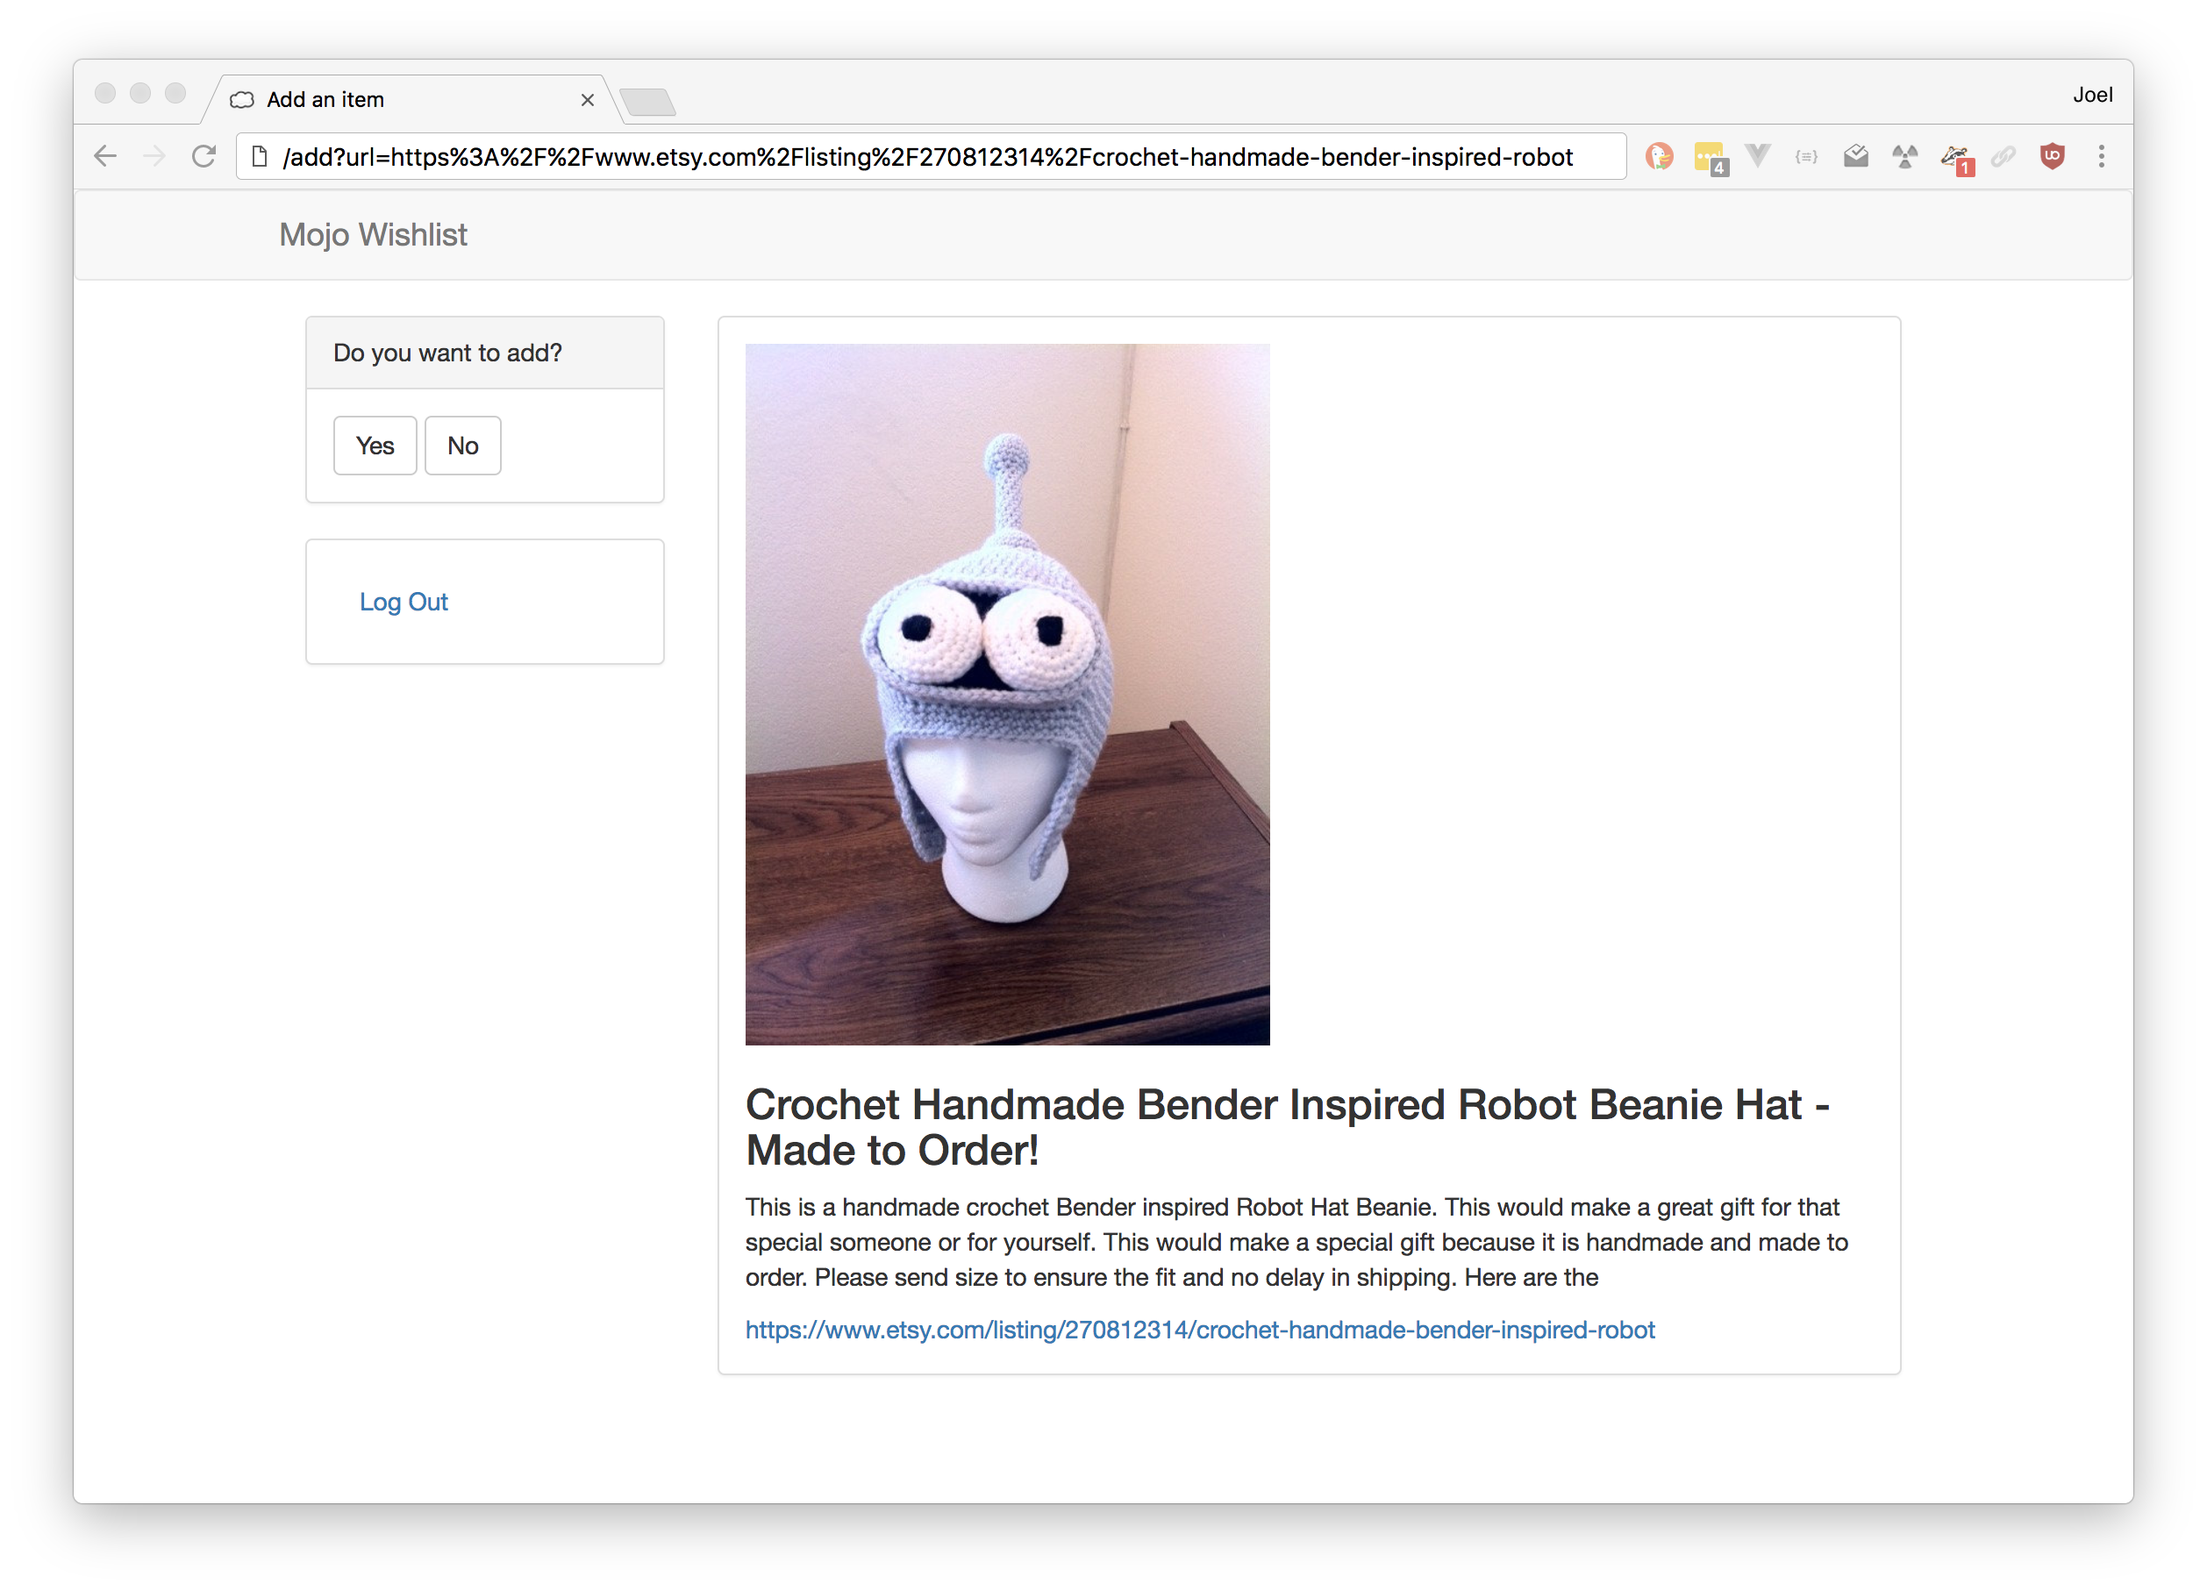
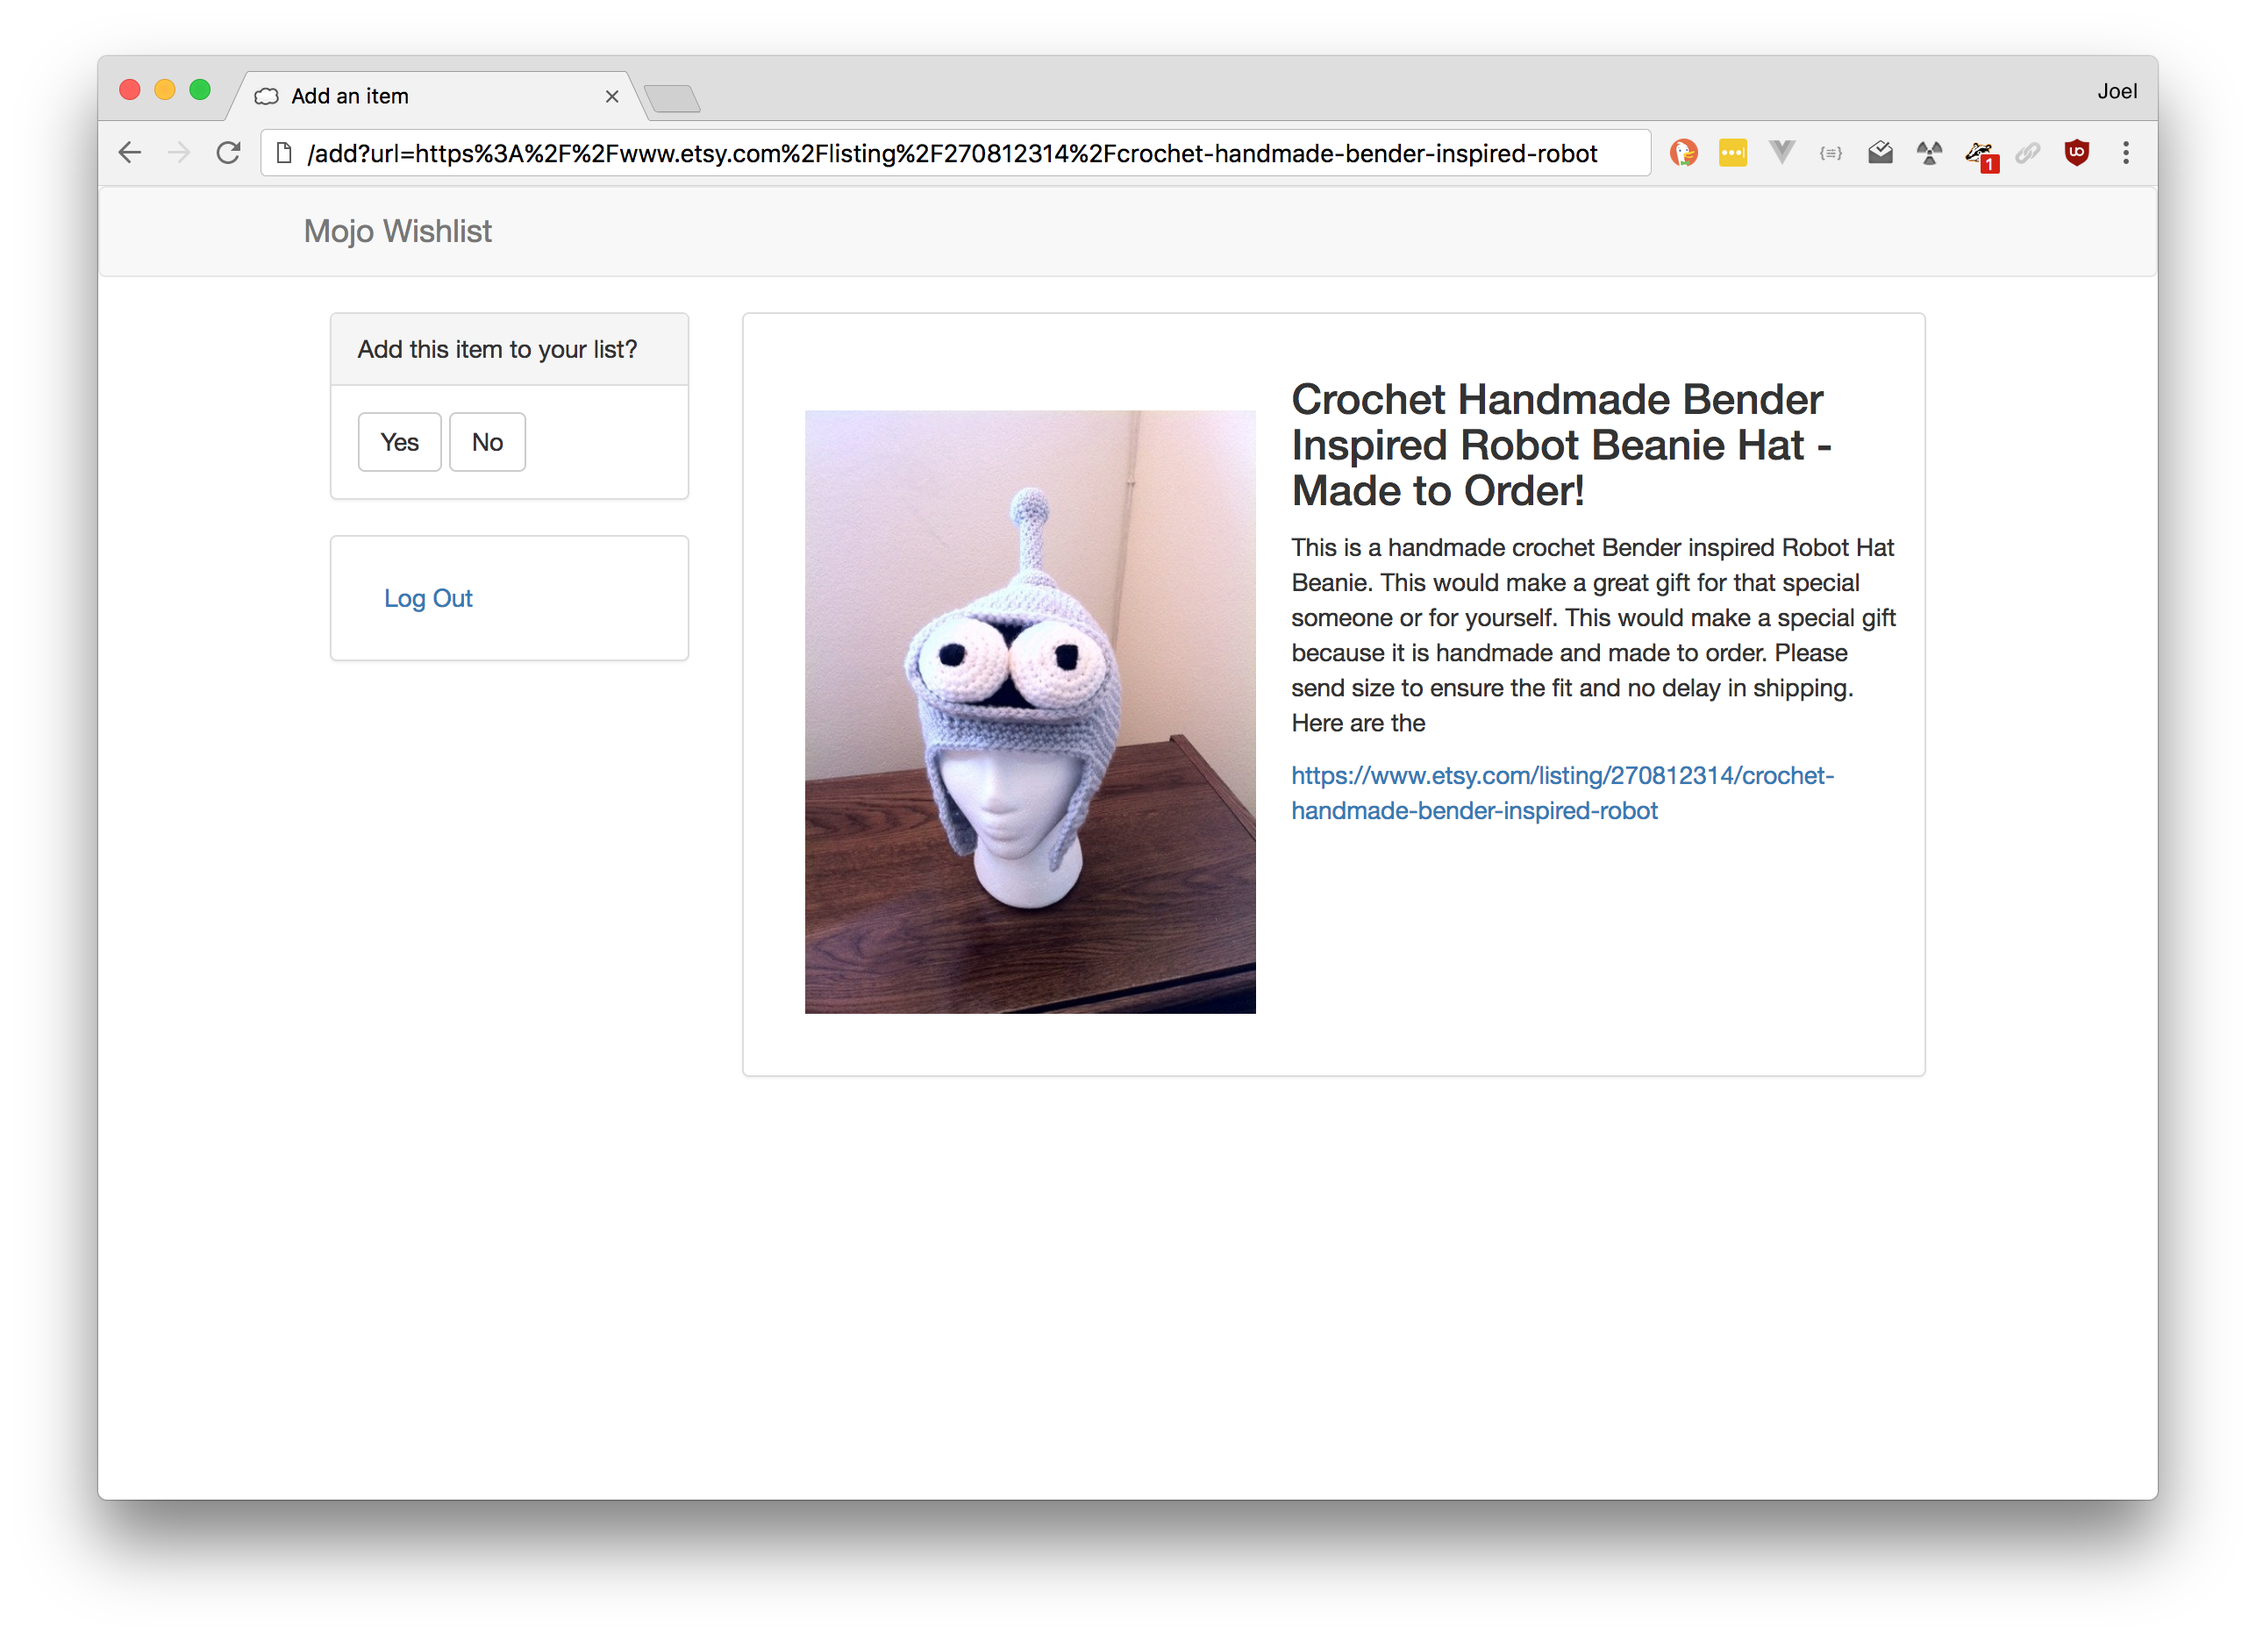
tweak the styling in the add template, and mention it in the article

diff --git a/live/blog/2017/12/17/day-17-the-wishlist-app/index.html b/live/blog/2017/12/17/day-17-the-wishlist-app/index.html
@@ -200,8 +200,9 @@ This is a shortcut helper to get the value of the <a href="http://mojolicious.or
 Well shall see in a moment how this value gets set.</p>
 
 <p>The remaining template portions are each getting the contents of named content buffers.
-While I employ five such inclusions, I will only actually use two: the <code>sidebar</code> and the default unnamed buffer.
-The other three are useful in many practical circumstances.
+While I establish five such inclusions, I will only actually use three: <code>head</code>, <code>sidebar</code> and the default unnamed buffer.</p>
+
+<p>With the possible exception of <code>sidebar</code>, buffers like these are useful in almost all application layouts.
 The <code>head</code> and <code>end</code> buffers let you add contents to those locations, especially useful to include extra stylesheets and javascript respectively.
 The <code>footer</code> buffer would allow additions to be placed at the end of the body but before any javascript inclusions.</p>
 
@@ -368,10 +369,20 @@ The <code>/login</code> and <code>/logout</code> handlers, for example.</p>
 <pre><code class="hljs">% title &#39;<span class="hljs-string">Add an item</span>&#39;;
 % layout &#39;<span class="hljs-string">default</span>&#39;;
 
+% content_for &#39;<span class="hljs-string">head</span>&#39; =&gt; <span class="hljs-keyword">begin</span>
+  &lt;style&gt;
+    <span class="hljs-comment">#item-detail img {</span><span class="hljs-comment">
+</span>      max-width: 40%;
+      float: left;
+      margin: <span class="hljs-number">20</span>px;
+    }
+  &lt;/style&gt;
+% <span class="hljs-keyword">end</span>
+
 % content_for &#39;<span class="hljs-string">sidebar</span>&#39; =&gt; <span class="hljs-keyword">begin</span>
   &lt;div class=&quot;<span class="hljs-string">panel panel-default</span>&quot;&gt;
     &lt;div class=&quot;<span class="hljs-string">panel-heading</span>&quot;&gt;
-      <span class="hljs-keyword">Do</span> you want to add?
+      Add this item to your list?
     &lt;/div&gt;
     &lt;div class=&quot;<span class="hljs-string">panel-body</span>&quot;&gt;
       %= form_for &#39;<span class="hljs-string">add</span>&#39; =&gt; (method =&gt; &#39;<span class="hljs-string">POST</span>&#39;) =&gt; <span class="hljs-keyword">begin</span>
@@ -386,7 +397,7 @@ The <code>/login</code> and <code>/logout</code> handlers, for example.</p>
 % <span class="hljs-keyword">end</span>
 
 &lt;div class=&quot;<span class="hljs-string">panel panel-default</span>&quot;&gt;
-  &lt;div class=&quot;<span class="hljs-string">panel-body</span>&quot;&gt;
+  &lt;div id=&quot;<span class="hljs-string">item-detail</span>&quot; class=&quot;<span class="hljs-string">panel-body</span>&quot;&gt;
     &lt;%== <span class="hljs-type">$link</span>-&gt;<span class="hljs-type">html</span> %&gt;
   &lt;/div&gt;
 &lt;/div&gt;
@@ -395,11 +406,13 @@ The <code>/login</code> and <code>/logout</code> handlers, for example.</p>
 
 <p><small>templates/add.html.ep</small></p>
 
-<p>Beyond being interesting to see how the link is used to embed HTML into the page, we also see our first use of a named content buffer via <a href="http://mojolicious.org/perldoc/Mojolicious/Plugin/DefaultHelpers#content_for"><code>content_for</code></a>.
+<p>Beyond being interesting to see how the link is used to embed HTML into the page, we also see our first uses of named content buffers via <a href="http://mojolicious.org/perldoc/Mojolicious/Plugin/DefaultHelpers#content_for"><code>content_for</code></a>.
+These add styling that is specific to the page into the <code>&lt;head&gt;</code> tag and inject a panel into the sidebar.
+Once this page renders, again before the layout is rendered, the content of that section is available in the <code>sidebar</code> buffer.</p>
+
+<p>The result is a tiny form that contains the data to be stored if the user wants to add it to their wishlist.
 Because the resulting main page might be quite large, and I want the user to have easy access to decide if they want to add the item, I&#39;ve placed it in the left hand column.
-Perhaps this is bad UX, but for our purposes, it shows my point.
-Once this page renders, again before the layout is rendered, the content of that section is available in the <code>sidebar</code> buffer.
-In this case, the result is a tiny form that contains the data to be stored if the user wants to add it to their wishlist.</p>
+Perhaps this is bad UX, but for educational purposes, it shows how these buffers can be used.</p>
 
 <p>We also see our first example of <a href="http://mojolicious.org/perldoc/Mojolicious/Plugin/DefaultHelpers#include"><code>include</code></a>.
 When called, the renderer immediately renders the template specified and returns the result.</p>
